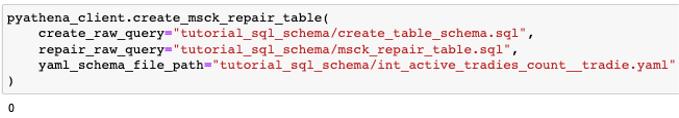
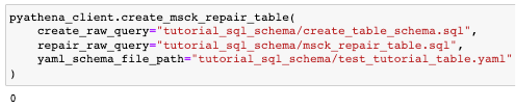
update documentation

Changed region(s): [[0.0, 0.0278, 1.0, 0.8056], [0.0, 0.8611, 0.031, 0.9444]]

diff --git a/docs/conf.py b/docs/conf.py
@@ -15,11 +15,11 @@ sys.path.insert(0, os.path.abspath("."))
 # -- Project information -----------------------------------------------------
 
 project = "data_ml_utils"
-copyright = "2022, ShuMing Peh"
+copyright = "2022 - 2023, ShuMing Peh"  # noqa: A001
 author = "ShuMing Peh"
 
 # The full version, including alpha/beta/rc tags
-release = "0.2.0"
+release = "0.3.3"
 
 
 # -- General configuration ---------------------------------------------------

diff --git a/docs/index.rst b/docs/index.rst
@@ -19,12 +19,11 @@ data-ml-utils has a few utilities that we try to generalise across projects.
    :caption: Contents:
 
    commands/pyathena
-   commands/client_sagemaker
-   commands/client_emr
    commands/pyathena_api_specs
    commands/pyathena_utils_api_specs
-   commands/client_sagemaker_api_specs
-   commands/client_emr_api_specs
+   commands/databricks_utils_api_specs
+   commands/mlflow_databricks
+   commands/mlflow_databricks_api_specs
 
 Why are packaging this into a python library?
 ---------------------------------------------
@@ -43,13 +42,14 @@ You can install `data-ml-utils` from the git repo using pip
 
 .. code-block:: console
 
-   $ pip install git+ssh://git@github.com/hipagesgroup/data-ml-utils@v0.1.0
+   $ pip install data-ml-utils --upgrade
 
 
 Pyathena
 --------
 We try to fit the function calls to be as simple as possible with a one-liner.
 This covers:
+
 - query athena tables and return as pandas dataframe
 - drop athena tables from offline feature store
 - create athena tables through schema, and update table with missing partitions
@@ -57,25 +57,14 @@ This covers:
 See :doc:`commands/pyathena` for more details.
 
 
-Client boto3 and botocore (Sagemaker)
--------------------------------------
+MLflow utils
+------------
 We try to fit the function calls to be as simple as possible with a one-liner.
 This covers:
-- get prod model uri from AWS model registry
-- unzips tar gz model file from AWS model registry
-- upload retrained model tar gz file to s3
-- create model package version in AWS model registry
 
-See :doc:`commands/client_sagemaker` for more details.
+- log artifact
+- log and register a model
+- log params
+- log metrics
 
-Client boto3 and botocore (EMR)
--------------------------------
-We try to fit the function calls to be as simple as possible with a one-liner.
-This covers:
-- create EMR cluster
-- check creation of EMR cluster status
-- terminate EMR cluster
-- get EMR cluster id
-- get EMR cluster master dns name
-
-See :doc:`commands/client_emr` for more details.
+See :doc:`commands/mlflow_databricks` for more details.

diff --git a/docs/commands/pyathena.rst b/docs/commands/pyathena.rst
@@ -24,8 +24,8 @@ Defining the environment variables can be done through `cli` or in your `.ipynb`
 .. code-block:: python
 
    import os
-   os.environ["AWS_ACCESS_KEY_ID"] = "xxx"
-   os.environ["AWS_SECRET_ACCESS_KEY"] = "xxx"
+   os.environ["AWS_ACCESS_KEY_ID"] = "xxx" # pragma: allowlist secret
+   os.environ["AWS_SECRET_ACCESS_KEY"] = "xxx" # pragma: allowlist secret
 
 
 Initialising pyathena connection
@@ -58,8 +58,7 @@ There is a function that will help to query your sql into a pandas dataframe
     SELECT
         *
     FROM
-        reporting_metrics_dev.int_active_tradies_count__tradie
-    LIMIT 10
+        dev.example_pyathena_client_table
    """
 
    df_raw = pyathena_client.query_as_pandas(final_query=query)
@@ -76,8 +75,8 @@ A successful response return `0`, and `1` otherwise
 .. code-block:: python
 
    pyathena_client.drop_table(
-      table_name="int_active_tradies_count__tradie",
-      database="reporting_metrics_dev"
+      table_name="example_pyathena_client_table",
+      database="dev"
    )
 
 .. image:: ../_static/drop_pyathena_client.png
@@ -94,7 +93,7 @@ A successful response return `0`, and `1` otherwise
    pyathena_client.create_msck_repair_table(
       create_raw_query="tutorial_sql_schema/create_table_schema.sql",
       repair_raw_query="tutorial_sql_schema/msck_repair_table.sql",
-      yaml_schema_file_path="tutorial_sql_schema/int_active_tradies_count__tradie.yaml"
+      yaml_schema_file_path="tutorial_sql_schema/test_tutorial_table.yaml"
    )
 
 .. image:: ../_static/create_repair_table_pyathena_client.png
